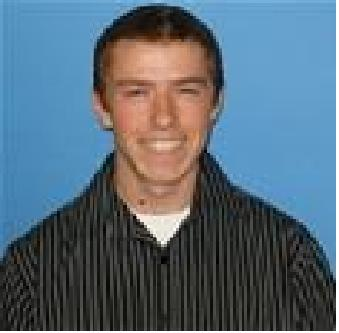
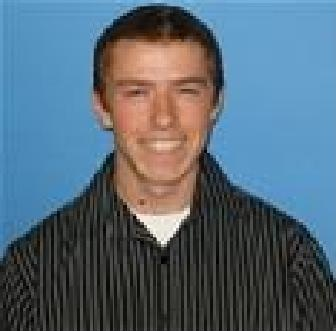
Web 2 personal web page Spring 2016

diff --git a/index.html b/index.html
@@ -1,10 +1,79 @@
 <!DOCTYPE html>
-<html>
 <head>
-   <title> Hello World </title>
-   <link rel = "stylesheet" type ="text/css" href = "myStyle.css"></link>
+  <title>Jonny's Page</title>
+  <link rel = "stylesheet" type ="text/css" href = "myStyle.css"></link>
+  <script>
+     function hideTable()
+     {
+	document.getElementById("myTable").style.display="none";
+     }
+     function showTable()
+     {
+	document.getElementById("myTable").style.display="table";
+     }
+
+  </script>
 </head>
-  <body align="center">
- 	<h1>Hello World</h1>
+
+  <body style="background-image:url(fabric_of_squares_gray.png)" >  <!-- Texture from http://subtlepatterns.com/?s=fabric -->
+    <h1>
+	Jonny Job's Web Page
+    </h1>
+    <h2>
+       <a href = "assignments.html">Assignments</a>
+    </h2>
+    <img class="tlProfile" src = "Profile.jpg" alt="Profile picture" height="100" width="100"/>
+    <br>
+    <p>
+	   Brigham Young University-Idaho 
+	   <br />
+   	   Software Engineering 
+	   <br />
+	   Graduation : April 2017
+	   <br />
+	   <br />
+
+      	   &quot; <strong>Live</strong> as if you were to die tomorrow.
+    	   <strong>Learn</strong> as if you were to live forever.&quot;
+    	   -<em>Mahatma Gandhi</em>
+	<br />
+        <br />
+	<br />
+
+	<strong>Introduction:</strong><br />
+	I'm from Stansbury Park Utah but I grew up in Riverside California.<br />
+	I have nine siblings, most of which live in various parts of Utah. <br />
+	I enjoy playing sports, making music, and studying personality theory. <br />
+	I hope to one day design educational software.
+	<br />
+        <br />
+	<br />
+
+        <button type="button" id="hideButton" onclick="hideTable()">Hide Schedule</button>
+        <button type="button" id="showButton" onclick="showTable()">Show Schedule</button>
+    </p>
+
+    <table id="myTable">
+	   <tr>
+	      <th colspan = "3">
+		Classes
+              </th>
+	   </tr>
+	   <tr> 
+	      <th> Course </th>
+	      <th> Name </th>
+	      <th> Day/Time </th>
+	   </tr>
+	   <tr> 
+	      <td> CS 313 </td>
+	      <td> Web Engineering II </td>
+	      <td> Online </td>
+	   </tr>
+	   <tr> 
+	      <td> CS 364 </td>
+	      <td> Software Engineering I </td>
+	      <td> Online </td>
+	   </tr>
+    </table>
   </body>
 </html>

diff --git a/myStyle.css b/myStyle.css
@@ -1,10 +1,3 @@
-img.topRight {
-	margin : 10px;
-	position:absolute; 
-	top:0px; 
-	left:10px;
-}
-
 body p {
 	color : black; 
 	padding : 2px; 
@@ -15,7 +8,7 @@ body {background-color : LightCyan }
 
 body h1
 {
-    
+	border-radius: 50px;
 	background-color : lightSteelBlue;
     
 	color : green;
@@ -40,6 +33,16 @@ div
 
 }
 
+img.tlProfile {
+	border-radius: 50px;   
+	-webkit-border-radius: 50px;
+	-moz-border-radius: 50px;  		
+	margin : 10px;
+	position:absolute; 
+	top:0px; 
+	left:10px;
+}
+
 div p {color : black;}
 
 span {color : red;}
@@ -58,4 +61,5 @@ th, td{
 
 <!--
 Table centering code from : http://theodorakis.net/tablecentertest.html#css. Theodorakis, Nicholas. 2007."Centering Tables"
+How to make a round image, See: http://bavotasan.com/2011/circular-images-with-css3/ 
 -->

diff --git a/assignments.html b/assignments.html
@@ -1,18 +1,13 @@
-<?xml version = "1.0" encoding = "utf-8"?>
-<!DOCTYPE html PUBLIC "-//W3C//DTD XHTML 1.0 Strict//EN"
- "http://www.w3.org/TR/xhtml1/DTD/xhtml1-strict.dtd">
-<html xmlns = "http://www.w3.org/1999/xhtml">
-
+<!DOCTYPE html>
 <head>
   <title> Assignments </title>
   <link rel = "stylesheet" type ="text/css" href = "myStyle.css"></link>  <body>
     <h1>
-	   Assignments
+	   Assignments - Coming Soon
     </h1>
 
     <p>
 	<br />
-        <a href = "vote.php"> PHP Survey </a> <br><br>
         <a href = "index.html">Home</a><br>
     </p>    
   </body>
